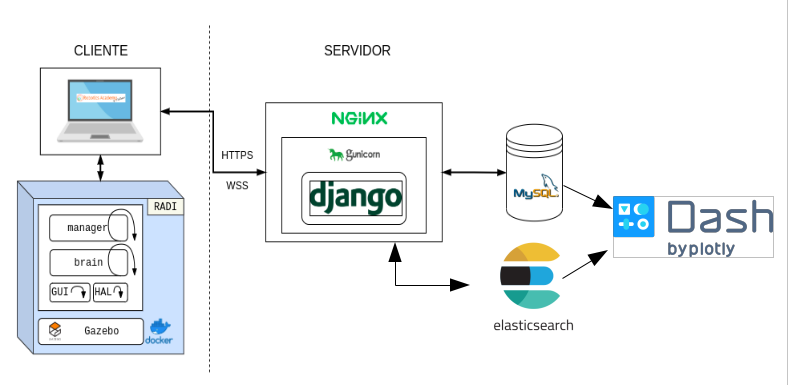
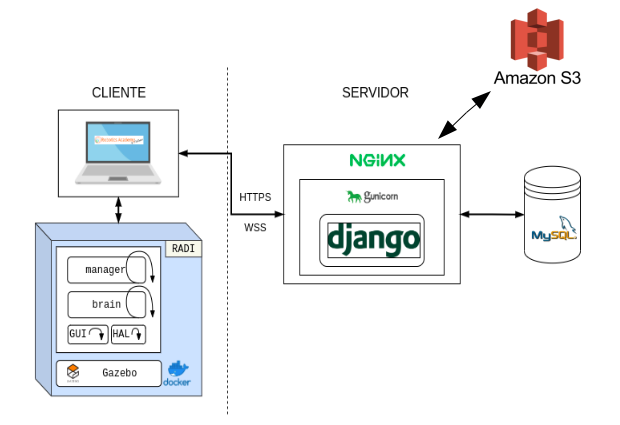
cambios capitulo 1 y sección 4.1

diff --git a/TFG/chapters/conclusiones.tex b/TFG/chapters/conclusiones.tex
@@ -1,15 +1,16 @@
 \chapter{Conclusiones y trabajos futuros}\label{conclusión}
 
-	En este último capítulo se detallan las conclusiones alcanzadas, así como las competencias adquiridas al realizar este TFG y futuros trabajos.
+	En este último capítulo se detallan las conclusiones alcanzadas, así como las competencias adquiridas al realizar este TFG y los futuros trabajos que pueden extender la plataforma y las contribuciones actuales.
 	
 	\section{Conclusiones finales} 
 	\label{sec:conclusiones_finales} 
 El objetivo principal de este TFG se ha cumplido, ya que se ha conseguido integrar con éxito analíticas automáticas en Unibotics. Desde la propia herramienta se detecta el tipo de usuario que accede, de tal manera que es posible controlar y mostrar una visualización u otra dependiendo de este tipo de usuario. Analizando los subjetivos, mencionados en el capítulo 2, llegamos a las siguientes conclusiones:\\
-
 \begin{itemize}
-\item  El subjetivo 1 y el subjetivo 2 se han conseguido con la utilización de la herramienta de Elasticsearch. Se ha podido capturar y guardar las interacciones de los usuarios en la plataforma. Además, se ha creado un nuevo botón en los ejercicios para poder recoger las sondas relativas a la puntuación de la eficacia del código. A parte de la sonda mencionada anteriormente, se han recogido las sondas relativas al inicio y fin de sesión, de los ejercicios y de la puntuación de estilo.
+\item  El subjetivo 1 se ha realizado con éxito. Se ha podido capturar y guardar las interacciones de los usuarios en la plataforma. Las sondas que se han recogido, han sido: el inicio y fin de sesión de un usuario, entrada y salida de los ejercicios y las evaluaciones de eficacia y estilo del código de cada ejercicio. A través de código JavaScript, las sondas se capturan en el \textit{frontend} y se envían al servidor, el cual se encarga de grabarlas en la base de datos.
 \newpage
-\item El subjetivo 3 se ha logrado con la integración de las visualizaciones de la información en el servidor web, gracias al entorno Dash. Ha permitido de una manera sencilla y potente la visualización de las sondas recogidas con Elasticserach. Estas visualizaciones disponen de filtros que permiten un análisis.
+\item  El subjetivo 2 se han conseguido con la utilización de la herramienta de Elasticsearch. El servidor web de Django es el encargado de grabar las sondas en la base de datos de Elasticsearch. Para conseguir guardar las sondas, se han creado cuatro índices, los cuales se explican en la subsección.
+
+\item El subjetivo 3 se ha logrado con la integración de las visualizaciones de la información en el servidor web, gracias al entorno Dash. Ha permitido de una manera sencilla y potente la visualización de las sondas recogidas con Elasticserach. Estas gráficas representan una ventana de siete meses del uso de Unibotics de estudiantes reales. Ello ha permitido a los administradores comprender mejor el uso real de la plataforma. Se han añadido en varias gráficas el filtro de fecha y el filtro por usuario. Las primeras gráficas son las basadas en el número de registros y usuarios en la plataforma. Aquí, se encuentran tres gráficas lineales que representan los registros, los registros acumulados y los usuarios activos, cada día. El siguiente bloque de gráficas enseña la actividad en la plataforma. En él, se encuentran las gráficas de sesiones por día, tanto totales como por usuario único. Estas gráficas se pueden encontrar en formato lineal o en mapa de calor, como se describe en la subsección. También, está la gráfica del tiempo total empleado en la plataforma cada día y su histograma. Para ver la actividad en cada ejercicio, se ha creado un histograma de las duraciones en ellos, con los filtros mencionados en la subsección.  Y por último, la visualización de los metadatos, donde se hallan el sistema operativo y navegador que utilizan los usuarios para acceder a la plataforma.
 \end{itemize}
 
 	\section{Competencias adquiridas} 
@@ -19,9 +20,9 @@ El objetivo principal de este TFG se ha cumplido, ya que se ha conseguido integr
 		\begin{itemize}
 			\item Ampliado mis conocimientos sobre las tecnologías web, tanto el entorno de Django como HTML, CSS y JavaScript.
 			
-			\item Conocer cómo funciona una base de datos en un proyecto real, en el caso de MySQL y saber desplegar e integrar una nueva base de datos, Elasticsearch. Importancia de la información para monitorizar un servicio web. 
+			\item Conocer cómo funciona una base de datos en un proyecto real, en el caso de MySQL, y saber desplegar e integrar una nueva base de datos no relacional, Elasticsearch. Comprender la importancia de la información para monitorizar un servicio web. 
 			
-			\item Comprender las tecnologías de visualizaciones automáticas de la información gracias a Dash, la cual es una herramienta rápida y eficiente.
+			\item Entender las tecnologías de visualizaciones automáticas de la información gracias a Dash, la cual es una herramienta rápida y eficiente.
 			
 			\item Aprender a utilizar GitHub como repositorio donde desarrollar proyectos en equipo, haciendo uso de incidencias y parches. 
 			
@@ -30,11 +31,10 @@ El objetivo principal de este TFG se ha cumplido, ya que se ha conseguido integr
 	\section{Trabajos futuros} 
 	\label{sec:trabajos_futuros} 
 
-		En esta sección se proponen futuras líneas de trabajo para poder mejorar las analíticas automáticas:
+		En esta sección se proponen futuras líneas de trabajo para mejorar las analíticas automáticas:
 
 		\begin{itemize}
-			\item Enriquecer las sondas que se encuentran en Unibotics añadiendo nuevas o añadiendo nuevos campos a los índices creados para recabar más información sobre el uso de la plataforma. Actualmente las sondas de puntuación de estilo y de eficacia solo se encuentran en cuatro ejercicios, así que se podrían añadir a los nuevos ejercicios que sean creados. Para recoger nuevas sondas será necesario la creación de nuevos índices en Elasticsearch y nuevas visualizaciones automáticas en la aplicación de Dash.\\
-\item Incorporar a Elasticsearch medidas de rendimiento en el servidor web. El servidor está desplegado en \textit{Amazon web services} en producción por lo que se pueden añadir métricas de memoria ocupada o CPU consumida entre otras, luego se podrá correlar esas métricas con las sondas actuales tales como el número de usuarios activos en la plataforma.
-
-\item En este TFG se ha visualizado las sondas con los datos directamente recogidos, el siguiente paso que se podría hacer es correlacionar las sondas recogidas. Es decir, por ejemplo, saber si el tiempo en el que realizan un ejercicio afecta la nota obtenida en el ejercicio. Esto nos permite hacer análisis estadísticos o investigaciones científicas, como el efecto de la \textit{gamificación}.\\
+\item Enriquecer las sondas que se encuentran en Unibotics añadiendo nuevas o añadiendo nuevos campos a los índices creados para recabar más información sobre el uso de la plataforma. Actualmente las sondas de puntuación de estilo y de eficacia solo se encuentran en cuatro ejercicios, así que se podrían añadir a los nuevos ejercicios que sean creados. Para recoger nuevas sondas será necesario la creación de nuevos índices en Elasticsearch y nuevas visualizaciones automáticas en la aplicación de Dash.
+\item Incorporar a Elasticsearch medidas de rendimiento en el servidor web. El servidor está desplegado en \textit{Amazon Web Services} en producción por lo que se pueden añadir métricas de memoria ocupada o CPU consumida, entre otras. Luego se podrá correlar esas métricas con las sondas actuales, tales como el número de usuarios activos en la plataforma.
+\item En este TFG se ha visualizado las sondas con los datos directamente recogidos, el siguiente paso que se podría hacer es correlacionar varias de las sondas recogidas y así enriquecer el conocimiento sobre el uso real que los estudiantes hacen de la plataforma y sobre los procesos de aprendizaje. Por ejemplo, saber si el tiempo en el que realizan un ejercicio afecta la nota obtenida en el ejercicio. Esto nos permite hacer análisis estadísticos o investigaciones científicas, como el efecto de la \textit{gamificación} en los procesos de aprendizaje.\\
 		\end{itemize}

diff --git a/TFG/chapters/analiticas.tex b/TFG/chapters/analiticas.tex
@@ -7,14 +7,25 @@ Para conseguir las analíticas automáticas en Unibotics, se ha hecho un diseño
 
 \begin{figure}[H]
     \centering
-    \includegraphics[width=15cm, keepaspectratio]{img/grafico.png}
-    \caption{Arquitectura Unibotics con las nuevas tecnologías}
+    \includegraphics[width=10cm, keepaspectratio]{img/grafico.png}
+    \caption{Antigua arquitectura de Unibotics}
     \label{fig:grafico}
 \end{figure}
-En la Figura \ref{fig:grafico} se presenta la nueva arquitectura de Unibotics. Cuando un usuario interactúa con la plataforma de Unibotics, la herramienta de Elasticsearch recoge la información de éste. Las visualizaciones de las sondas recogidas se hacen a través de Dash, herramienta independiente a Django. Dash utiliza la base de datos de MySQL y Elasticsearch.\\
+
+En la Figura \ref{fig:grafico} se presenta la arquitectura de Unibotics. Como se describe en la sección 1.5, Unibotics esta formado por un \textit{frontend}, dónde se encuentra el cliente conectado a un contenedor RADI que tiene el simulador. La parte del \textit{backend}
+está compuesta por Django, el cual se conecta a la base de datos MySQL y a la nube de Amazon, S3.
+
+\begin{figure}[H]
+    \centering
+    \includegraphics[width=15cm, keepaspectratio]{img/grafico2.png}
+    \caption{Arquitectura Unibotics con las nuevas tecnologías}
+    \label{fig:grafico2}
+\end{figure}
+La Figura \ref{fig:grafico2}  muestra como es la arquitectura de Unibotics, después de este TFG. En la parte del \textit{frontend}, se ha añadido la recogida de sondas con código JavaScript, al igual que las puntuaciones automáticas. Además está la web de analíticas dónde se ven las gráficas. Por otro lado, en el \textit{backend}, se ha añadido la base de datos Elasticsearch y la herramienta de Dash para las visualizaciones.\\
 
 Lo primero que hace un usuario cuando quiere entrar en la plataforma es registrarse en ella, guardando ese registro en la base de datos MySQL. Una vez registrado, podrá iniciar sesión en ella, en el momento que desee. Cuando se encuentre dentro de la plataforma, podrá elegir un ejercicio y acceder a él, dónde podrá programar la solución. Dentro de los ejercicios tienen la opción de pedir una evaluación automática de estilo y eficacia del código programado. Para abandonar la plataforma se puede cerrar sesión o de manera implícita, cerrando el navegador o la pestaña.\\
 
+Cuando un usuario interactúa con la plataforma de Unibotics, la herramienta de Elasticsearch recoge la información de éste. Las visualizaciones de las sondas recogidas se hacen a través de Dash, herramienta independiente a Django. Dash utiliza la base de datos de MySQL y Elasticsearch.\\
 \section{Recogida de sondas}
 La primera parte de este proceso ha consistido en la recogida de diferentes sondas. Para realizar esta tarea, se ha decidido utilizar la herramienta de Elasticsearch por las ventajas que ofrece explicadas en el capítulo 3.\\
 

diff --git a/TFG/chapters/introduccion.tex b/TFG/chapters/introduccion.tex
@@ -158,7 +158,7 @@ Se puede programar los ejercicios directamente desde la web sin la necesidad de 
     \label{fig:infra}
 \end{figure}
 \newpage
-En la Figura \ref{fig:infra} se muestra la infraestructura de la plataforma actualmente. En la parte del servidor se encuentra un \textit{webserver}, el cual se conecta a base de datos como Elsaticsearch y MySQL, también se conecta al almacenamiento de la nube de Amazon S3 y una granja de 80 puestos. En la parte del cliente, a parte de la plataforma web se conecta a través de tres websocket al contenedor Docker, RADI. Esto hace que el coste computacional del simulador sea menor.\\
+En la Figura \ref{fig:infra} se muestra la infraestructura de la plataforma actualmente. En la parte del servidor se encuentra un \textit{webserver}, el cual se conecta a la base de datos, como Elsaticsearch y MySQL. También, se conecta al almacenamiento de la nube de Amazon S3 y a una granja de 80 puestos. En la parte del cliente, a parte de la plataforma web se conecta a través de tres websocket al contenedor Docker, RADI. Esto hace que el coste computacional del simulador sea menor.\\
 
 En los últimos 5 años se ha recibido ayuda de \textit{Google Summer of code}\footnote{https://summerofcode.withgoogle.com/archive/}, gracias a la cual se han ido añadiendo contenidos a la plataforma y también gracias a Trabajos de Fin de Grado.\\
 
